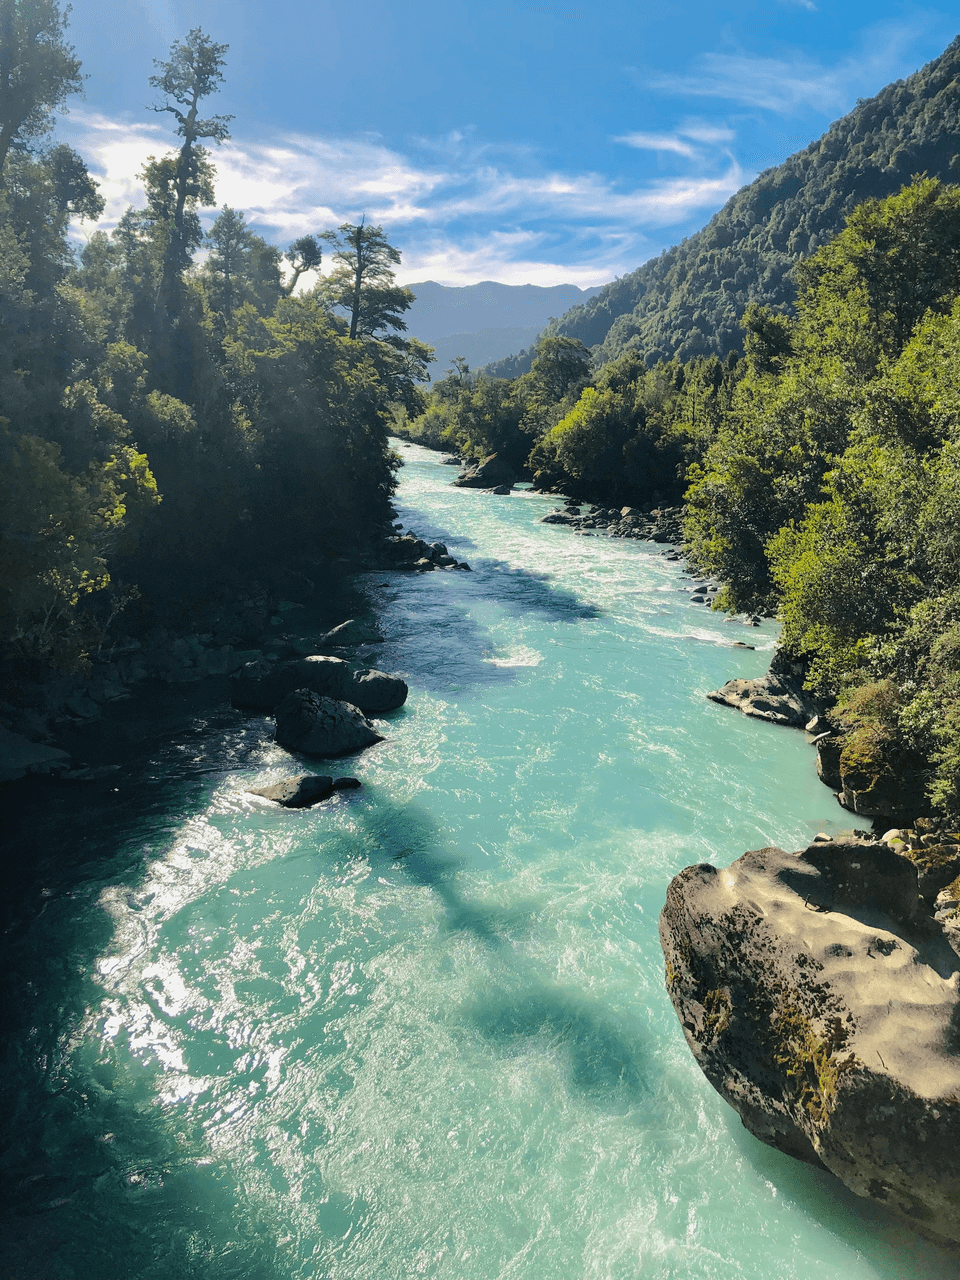
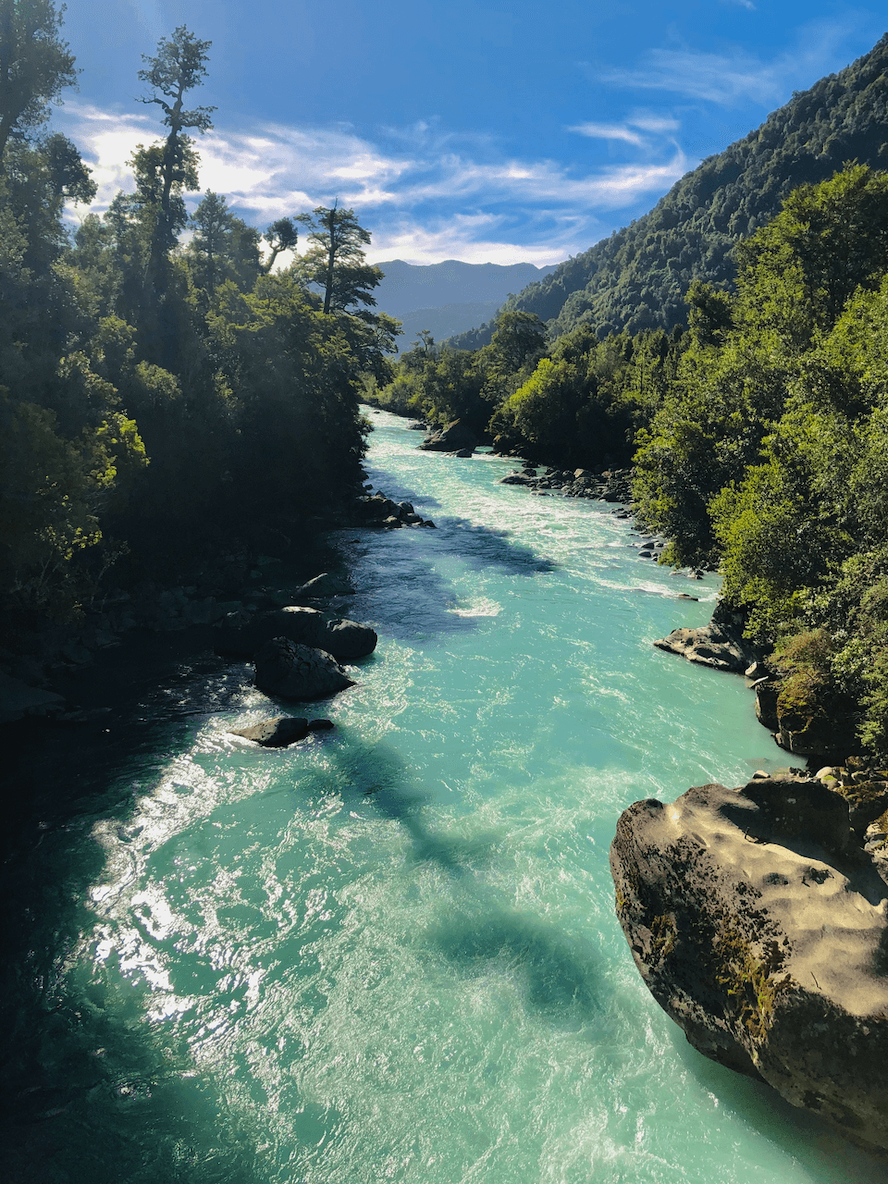
adding fontsize and some css

diff --git a/wwr/styles/style.css b/wwr/styles/style.css
@@ -1,3 +1,6 @@
+@import url('https://fonts.googleapis.com/css2?family=Open+Sans:wght@400;700&family=Poppins:wght@400;700&display=swap');
+
+
 :root {
     /* change the values below to your colors from your palette */
     --primary-color: #000022;
@@ -34,6 +37,14 @@ section h2 {
 
 body {
     background-color: var(--accent3-color);
+    font-family: Poppins, Arial, sans-serif;
+    font-size: 22px;
+    margin: 0;
+    padding: 0;
+}
+
+h2 {
+    margin: 0;
 }
 
 header {
@@ -43,6 +54,7 @@ header {
 nav a {
     color: var(--primary-color);
     text-decoration: none;
+    padding: 35px;
 }
 
 nav a:hover {
@@ -50,6 +62,10 @@ nav a:hover {
     color: var(--accent2-color);
 }
 .book, .join {
+    border-radius: 5px;
+    margin-top: 50px;
+    font-size: 18px;
+    padding: 15px 30px;
     background-color: var(--secondary-color);
     color: var(--accent2-color);
     transition: color 2s ease-in-out;
@@ -61,12 +77,15 @@ nav a:hover {
 }
 
 .msg {
+    padding: 35px;
     background-color: var(--primary-color);
     color: var(--accent2-color);
+    line-height: 1.5em;
 }
 
 
 footer {
+    padding: 25px 50px;
     background-color: var(--primary-color);
     color: var(--accent2-color);
 }
@@ -90,7 +109,14 @@ footer p a:hover {
     text-decoration: underline;
 }
 
+footer .social img {
+    padding-top: 15px;
+}
+
 .home-title {
+    margin-top: 10px;
+    font-family: "Open Sans", sans-serif;
+    font-size: 2em;
     color: var(--accent2-color);
 }
 
@@ -99,10 +125,13 @@ h4 {
 }
 
 .msg h2 {
+    font-family: "Open Sans", sans-serif;;
     color: var(--accent2-color);
 }
 
 .msg p {
+    padding-bottom: 15px;
+    font-size: .8em;
     color: var(--accent2-color);
 }
 
@@ -111,9 +140,26 @@ h4 {
 }
 
 .icon {
+    padding-top: 10px;
     width: 80px;
 }
 
 .logo {
     width: 80px;
+}
+
+#logo_link {
+    padding-top: 5px;
+}
+
+.rivers-card, .camping-card, .rapids-card {
+    margin: 200px 0;
+}
+
+.card-img {
+    border: 10px solid #d9c2a3;
+}
+
+main section img {
+    box-sizing: border-box;
 }

diff --git a/wwr/index.html b/wwr/index.html
@@ -35,7 +35,7 @@
         </div>
         <main class="home-grid">
             <section class="rivers-card">
-                <img class="card-img" src="images/rivers.png" alt="river in forest" width="600">
+                <img class="card-img" src="images/rivers.png" alt="river in forest" width="600" height="400">
                 <img class="icon" src="images/river_icon.png" alt="river icon">
                 <h2>Rivers</h2>
             </section>

diff --git a/wwr/contact.html b/wwr/contact.html
@@ -1,0 +1,13 @@
+<!doctype html>
+<html lang="en">
+<head>
+    <meta charset="UTF-8">
+    <meta name="viewport"
+          content="width=device-width, user-scalable=no, initial-scale=1.0, maximum-scale=1.0, minimum-scale=1.0">
+    <meta http-equiv="X-UA-Compatible" content="ie=edge">
+    <title>Contact</title>
+</head>
+<body>
+    <h2>Contact</h2>
+</body>
+</html>
